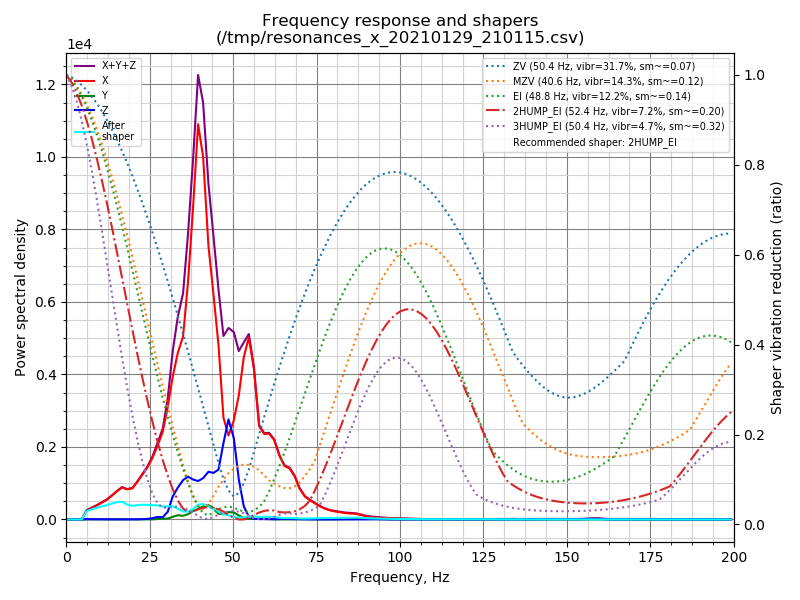
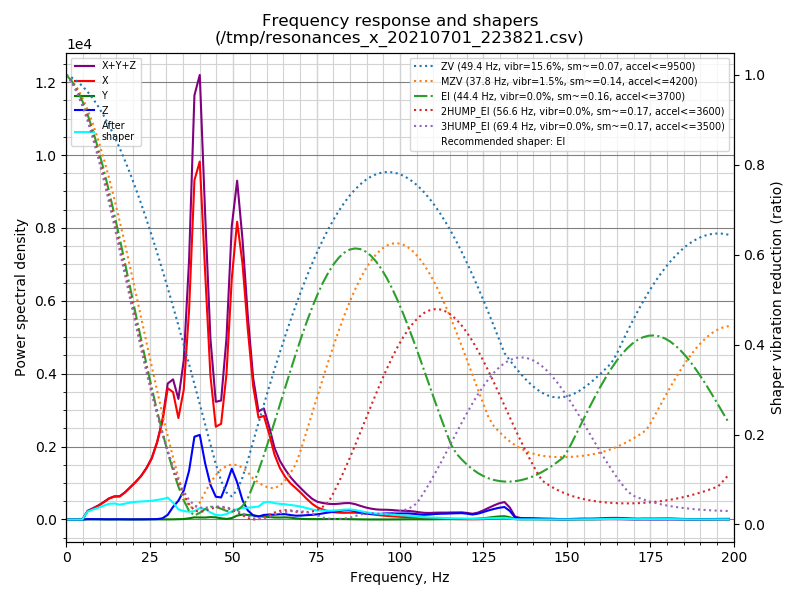
tuning(ender3): x input shaper test

Changed region(s): [[0.0312, 0.03, 0.9062, 0.9]]

diff --git a/ender3/README.md b/ender3/README.md
@@ -141,13 +141,18 @@ Change the timestamp as appropriate
 X Shaper Result
 
 ```
-~/klipper/scripts/calibrate_shaper.py /tmp/resonances_y_20210130_221343.csv -o /tmp/shaper_calibrate_y.png
-Fitted shaper 'zv' frequency = 46.4 Hz (vibrations = 37.0%, smoothing ~= 0.077)
-Fitted shaper 'mzv' frequency = 31.4 Hz (vibrations = 15.9%, smoothing ~= 0.207)
-Fitted shaper 'ei' frequency = 41.6 Hz (vibrations = 15.2%, smoothing ~= 0.186)
-Fitted shaper '2hump_ei' frequency = 44.2 Hz (vibrations = 8.2%, smoothing ~= 0.276)
-Fitted shaper '3hump_ei' frequency = 50.0 Hz (vibrations = 6.3%, smoothing ~= 0.328)
-Recommended shaper is 3hump_ei @ 50.0 Hz
+~/klipper/scripts/calibrate_shaper.py /tmp/resonances_x_20210701_223821.csv -o /tmp/resonances_x_20210701_223821.png
+Fitted shaper 'zv' frequency = 49.4 Hz (vibrations = 15.6%, smoothing ~= 0.069)
+To avoid too much smoothing with 'zv', suggested max_accel <= 9500 mm/sec^2
+Fitted shaper 'mzv' frequency = 37.8 Hz (vibrations = 1.5%, smoothing ~= 0.143)
+To avoid too much smoothing with 'mzv', suggested max_accel <= 4200 mm/sec^2
+Fitted shaper 'ei' frequency = 44.4 Hz (vibrations = 0.0%, smoothing ~= 0.163)
+To avoid too much smoothing with 'ei', suggested max_accel <= 3700 mm/sec^2
+Fitted shaper '2hump_ei' frequency = 56.6 Hz (vibrations = 0.0%, smoothing ~= 0.168)
+To avoid too much smoothing with '2hump_ei', suggested max_accel <= 3600 mm/sec^2
+Fitted shaper '3hump_ei' frequency = 69.4 Hz (vibrations = 0.0%, smoothing ~= 0.170)
+To avoid too much smoothing with '3hump_ei', suggested max_accel <= 3500 mm/sec^2
+Recommended shaper is ei @ 44.4 Hz
 ```
 
 ![](shaper_calibrate_y.png)
